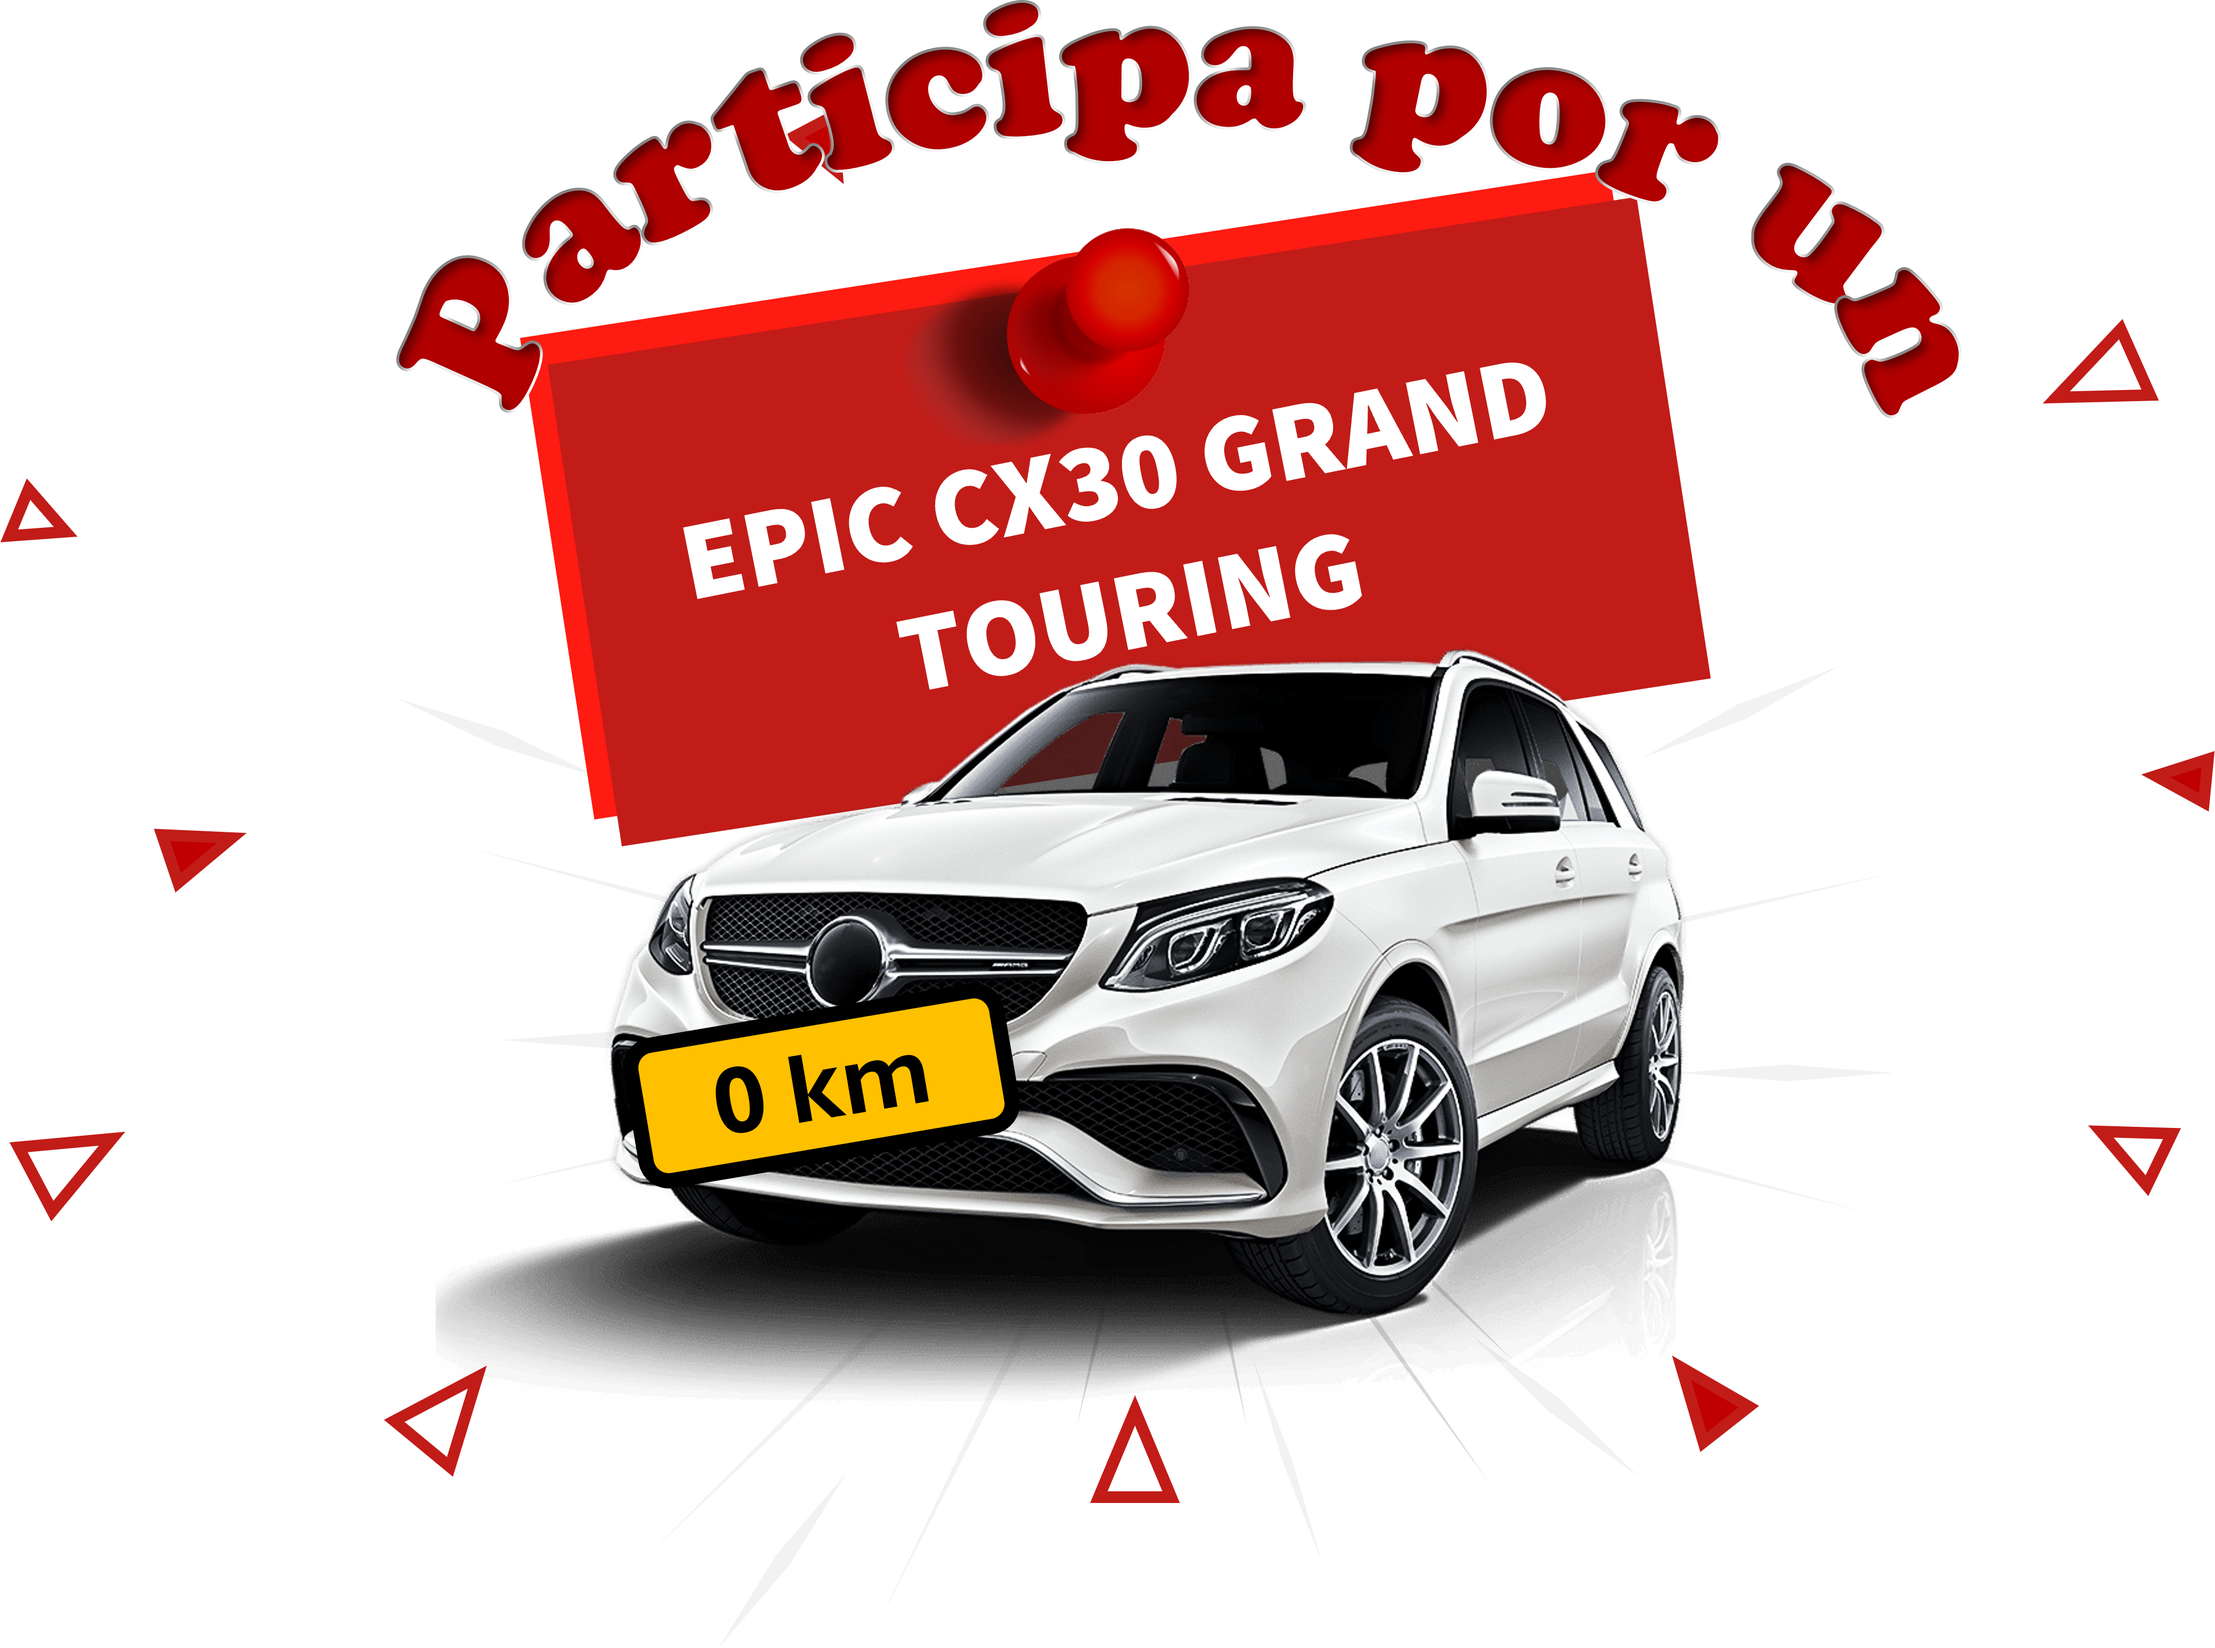
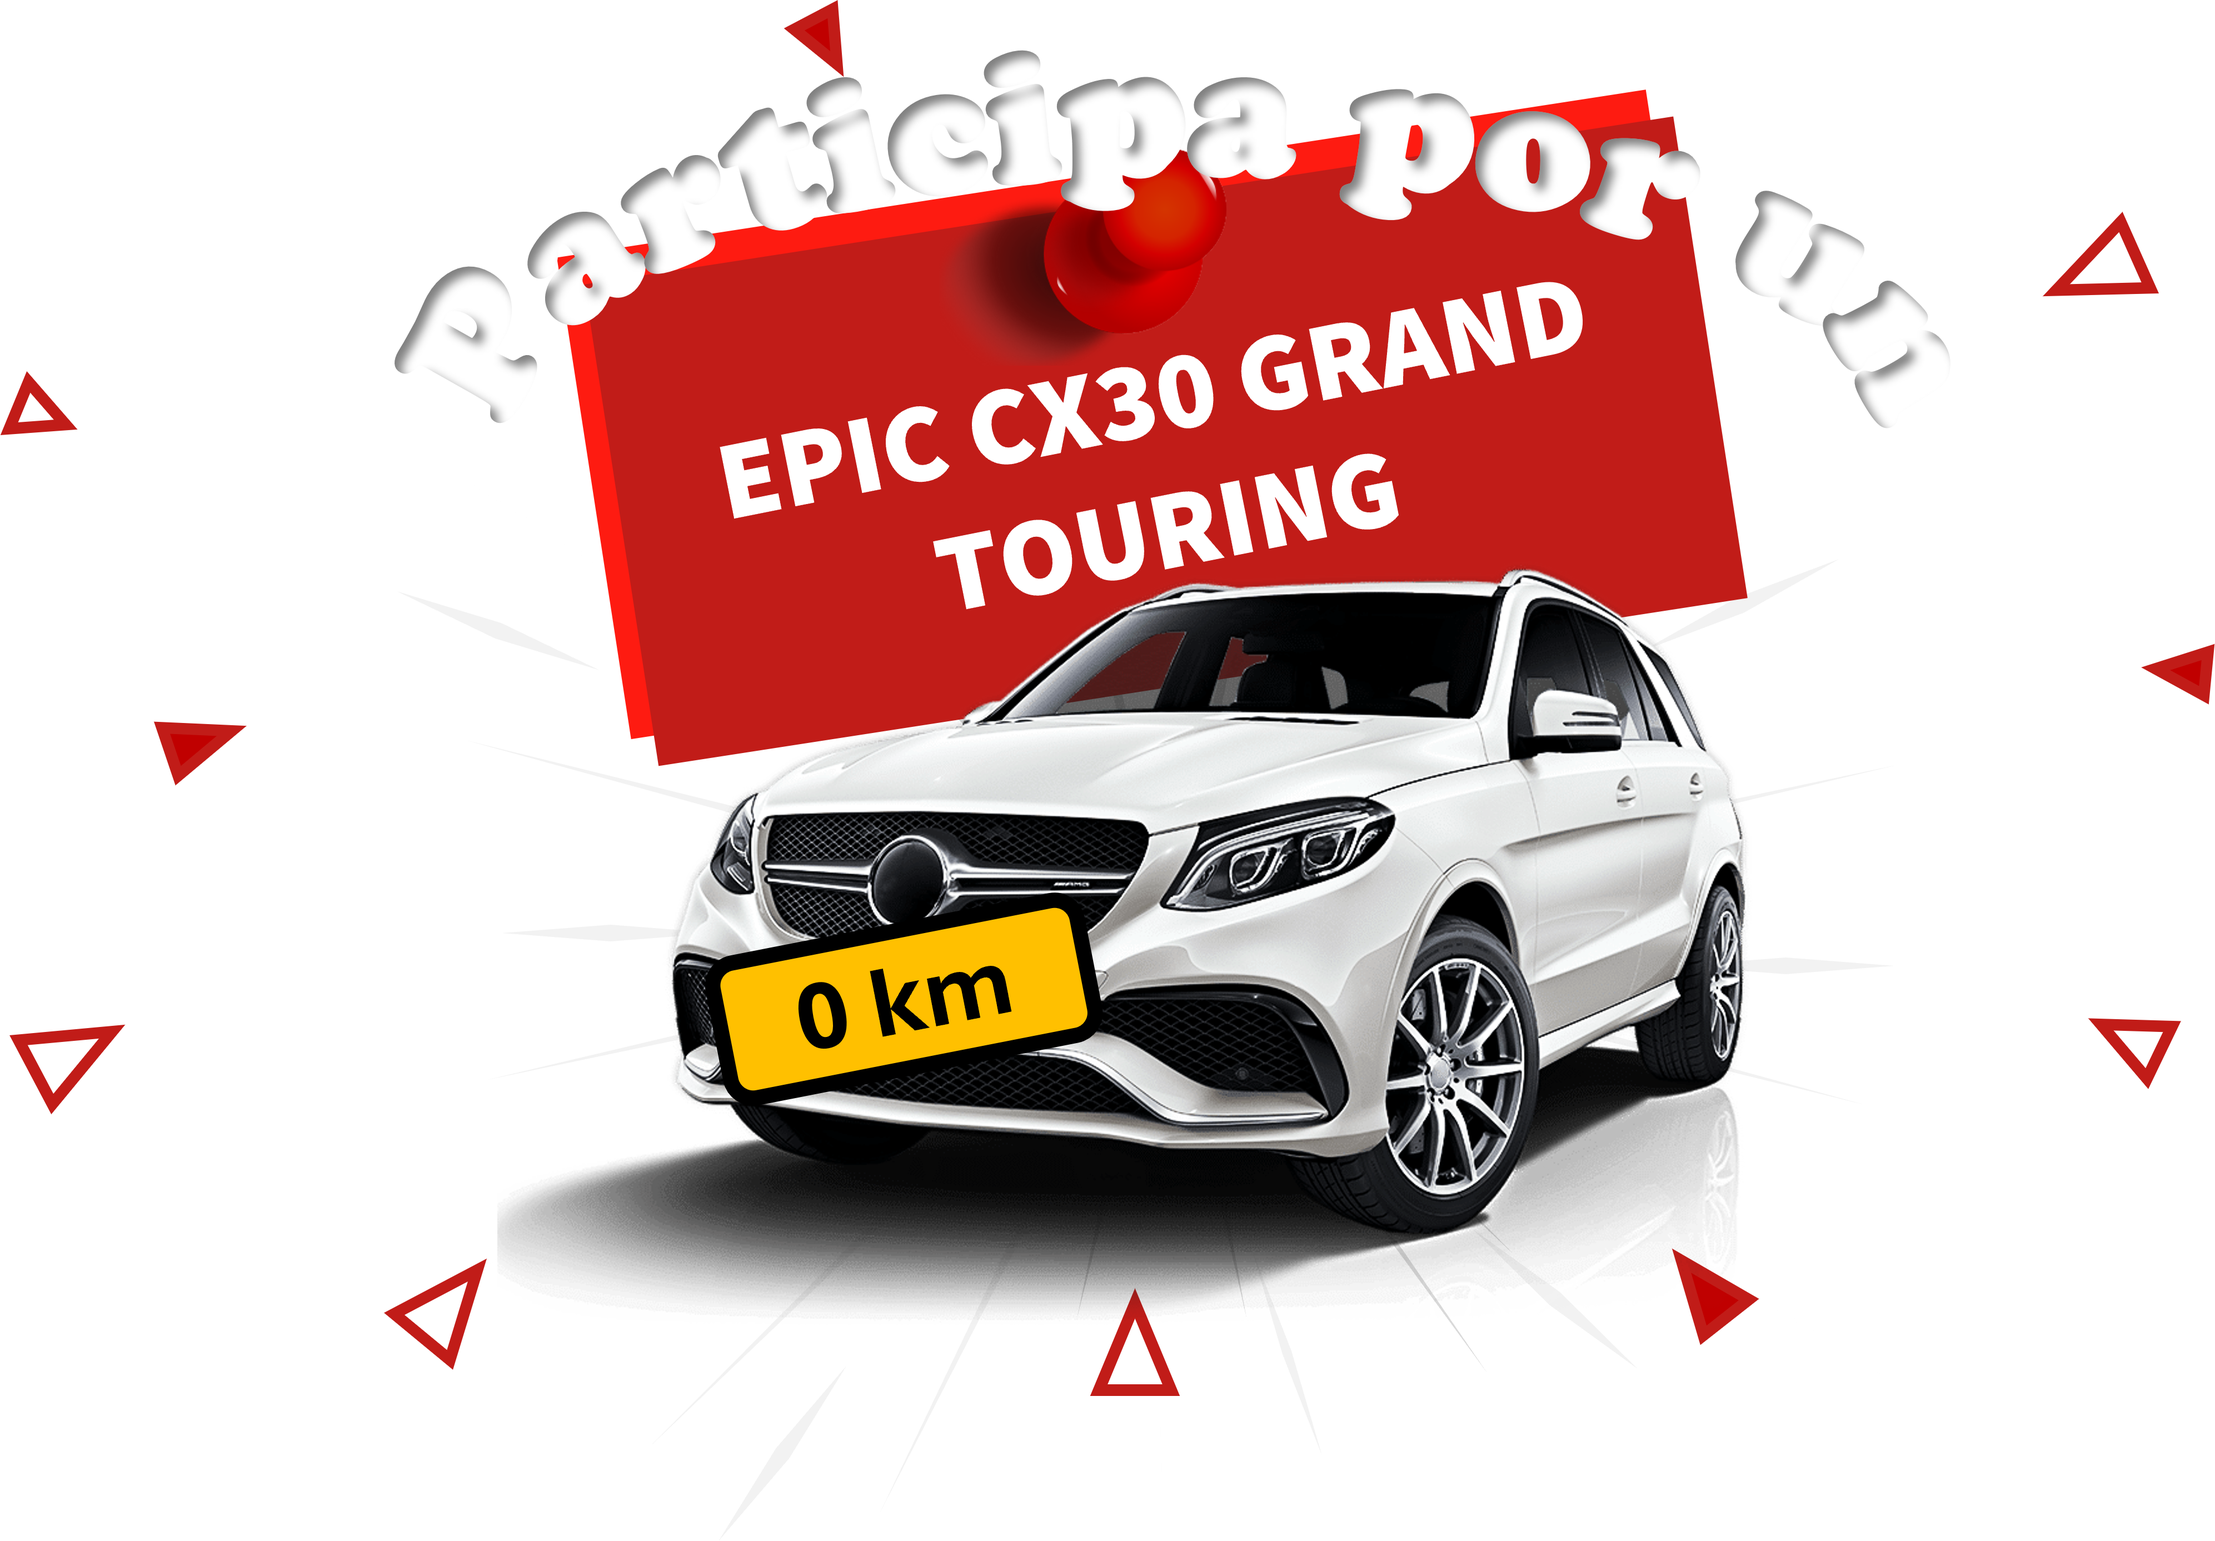
se agrega terminos del sorteo y se hacen correcciones gramaticales a textos

diff --git a/app/page.tsx b/app/page.tsx
@@ -8,6 +8,122 @@ export default function Home() {
     <Wrapper>
       <main className={`my-10 px-2 h-full`}>
         <Form />
+        <div className={`w-11/12 max-w-[1100px] mx-auto text-sm mt-5`}>
+          <h2 className={`font-bold uppercase`}>
+            <span className={`text-red-500`}>**</span> Términos y Condiciones
+            del Sorteo “Epic CX30 GRAND TOURING 2025”
+          </h2>
+          <div>
+            <ol className={`list-decimal ps-7`}>
+              <li className={`ps-2`}>
+                <span className={`font-medium`}>Organizador</span> <br /> El
+                presente sorteo es organizado por Epic Motors SAS, con domicilio
+                en Cartagena, Bolívar, Calle 58 No 18 A 04, y se regirá por los
+                siguientes términos y condiciones.
+              </li>
+              <li className={`ps-2`}>
+                <span className={`font-medium`}>Premio</span> <br /> El premio
+                consiste en 12 vehículos Epic CX30 GRAND TOURING, modelo 2025,
+                uno para cada ganador, durante un periodo de 12 meses. Un
+                vehículo será sorteado el último sábado de cada mes, desde enero
+                hasta diciembre de 2.025.
+              </li>
+              <li className={`ps-2`}>
+                <span className={`font-medium`}>Participantes</span> <br />{" "}
+                Podrán participar todas las personas naturales mayores de 18
+                años, residentes en Colombia, que completen correctamente el
+                formulario disponible en la página web del sorteo, acepten los
+                términos y condiciones, y otorguen su consentimiento para el
+                tratamiento de sus datos personales.
+              </li>
+              <li className={`ps-2`}>
+                <span className={`font-medium`}>Mecanismo de paticipación</span>{" "}
+                <br />
+                Para participar en el sorteo, los interesados deberán:
+                <ul className={`list-disc ps-5`}>
+                  <li className={`ps-3`}>
+                    Diligenciar completamente el formulario de inscripción
+                    disponible en &ldquo;{" "}
+                    <span className={`text-blue-600`}>
+                      {" "}
+                      www.sorteovehiculoepic@epicmotors.com
+                    </span>
+                    &ldquo;.
+                  </li>
+                  <li className={`ps-3`}>
+                    Proporcionar datos veraces y completos.
+                  </li>
+                  <li className={`ps-3`}>
+                    Aceptar los términos y condiciones del sorteo y el
+                    tratamiento de datos personales.
+                  </li>
+                </ul>
+                Solo será válida una inscripción por persona cada mes. Si una
+                persona desea participar en sorteos posteriores, deberá
+                diligenciar el formulario nuevamente.
+              </li>
+              <li className={`ps-2`}>
+                <span className={`font-medium`}>Selección de ganadores</span>{" "}
+                <br /> Cada mes, un ganador será seleccionado de forma aleatoria
+                mediante una plataforma certificada de sorteos. La selección
+                será pública y se transmitirá en redes sociales. El nombre del
+                ganador será anunciado en nuestras redes sociales y en la página
+                web oficial de Epic Motors SAS.
+              </li>
+              <li className={`ps-2`}>
+                <span className={`font-medium`}>Notificación del ganador</span>{" "}
+                <br /> El ganador será notificado a través de los datos de
+                contacto proporcionados en el formulario de inscripción
+                (teléfono o correo electrónico). En caso de que no se logre
+                contactar al ganador dentro de los 10 días hábiles siguientes a
+                la realización del sorteo, Epic Motors SAS se reserva el derecho
+                de seleccionar un nuevo ganador.
+              </li>
+              <li className={`ps-2`}>
+                <span className={`font-medium`}>Entrega del premio</span> <br />{" "}
+                El ganador de cada mes deberá presentar su identificación y
+                firmar la documentación correspondiente para la entrega del
+                vehículo. Los gastos de impuestos y registro vehicular serán
+                responsabilidad del ganador. El premio no es transferible ni
+                intercambiable por dinero en efectivo.
+              </li>
+              <li className={`ps-2`}>
+                <span className={`font-medium`}>Exclusiones</span> <br /> No
+                podrán participar empleados de Epic Motors SAS, ni sus
+                familiares directos (padres, hijos, cónyuges), ni personas que
+                tengan relación profesional con la organización del sorteo.
+              </li>
+              <li className={`ps-2`}>
+                <span className={`font-medium`}>Publicidad</span> <br /> El
+                ganador autoriza a Epic Motors SAS a utilizar su nombre, imagen
+                y datos para efectos publicitarios en medios de comunicación sin
+                que esto genere compensación adicional.
+              </li>
+              <li className={`ps-2`}>
+                <span className={`font-medium`}>Datos personales</span> <br />{" "}
+                Los datos recolectados serán tratados de acuerdo con la Ley de
+                Protección de Datos Personales y únicamente utilizados para
+                fines relacionados con el sorteo. El participante podrá
+                solicitar la actualización, rectificación o supresión de sus
+                datos en cualquier momento.
+              </li>
+              <li className={`ps-2`}>
+                <span className={`font-medium`}>
+                  Modificación de términos y condiciones
+                </span>{" "}
+                <br /> Epic Motors SAS se reserva el derecho de modificar los
+                términos y condiciones del presente sorteo, siempre que se
+                informe con antelación suficiente a los participantes a través
+                de su página web oficial.
+              </li>
+              <li className={`ps-2`}>
+                <span className={`font-medium`}>Aceptación de términos</span>{" "}
+                <br /> La participación en el sorteo implica la aceptación plena
+                de estos términos y condiciones, sin lugar a reclamo alguno.
+              </li>
+            </ol>
+          </div>
+        </div>
       </main>
     </Wrapper>
   );

diff --git a/components/Hero.tsx b/components/Hero.tsx
@@ -1,19 +1,25 @@
 import Image from "next/image";
-import anuncio from "../public/images/hero/anuncio3.png";
+import anuncio from "../public/images/hero/anuncio4.png";
 
 const Hero = () => {
   return (
-    <div className={`relative w-full h-[500px] bg-gradient-to-r from-custom-green to-custom-purple`}>
+    <div
+      className={`relative w-full h-[500px] bg-gradient-to-r from-custom-green to-custom-purple`}
+    >
       <div className="absolute inset-0 bg-gradient-radial opacity-60 z-10"></div>
-       <div className={`absolute inset-2 flex justify-center items-center z-20`}>
-        <div className={`h-full`}>
+      <div className="absolute inset-0 bg-gradient-layer z-20"></div>
+      <div
+        className={`absolute inset-2 flex flex-col justify-center items-center z-30`}
+      >
+        <div className={`md:h-full h-11/12`}>
           <Image
             src={anuncio}
             alt="hero"
             className={`w-full h-full object-cover`}
           />
         </div>
-      </div> 
+      
+      </div>
     </div>
   );
 };

diff --git a/app/[code]/page.tsx b/app/[code]/page.tsx
@@ -26,8 +26,8 @@ const RegistrationSuccessful = ({ params }: { params: { code: string } }) => {
             </p>
             <p>Sortearemos 12 carros 0 km, uno cada mes.</p>
             <p>
-              No olvides revisar las redes nuestras redes sociales, y mantenerte
-              con contacto con nostros.
+              No olvides revisar nuestras redes sociales, para mantenerte
+              informado.
             </p>
             <p>
               Tambien tenemos muchos premios para nuestros clientes, guarda tu

diff --git a/components/Form.tsx b/components/Form.tsx
@@ -77,7 +77,10 @@ const Form = () => {
       >
         <p className={`text-xs`}>
           <span className={`text-red-500 font-medium`}>*</span> Campos
-          Obligatorios
+          Obligatorios.
+        </p>
+        <p className={`text-xs`}>
+          <span className={`text-red-500 font-medium`}>**</span> Ver téminos y condiciones del sorteo.
         </p>
         <div className={`w-full bg-white p-8 mt-5 space-y-2`}>
           {(errors.city ||

diff --git a/app/globals.css b/app/globals.css
@@ -17,6 +17,15 @@
       transparent 90%
     );
   }
+  .bg-gradient-layer {
+    background: linear-gradient(
+      to right,
+
+      rgba(0, 0, 0, 0.4),
+      transparent,
+      rgba(0, 0, 0, 0.4)
+    );
+  }
 }
 
 input[type="number"] {
